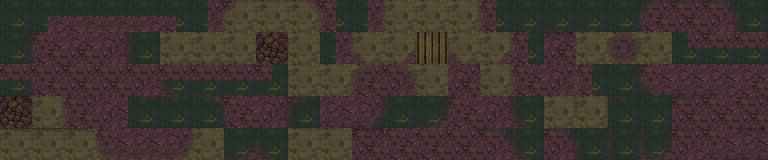
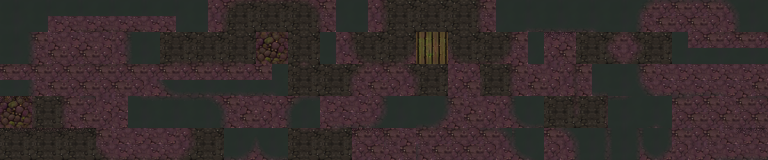
swamp: calm smooth bog water + earthy-brown soil that matches the marsh
Bog water: the @1041,102 tile had a busy yellow-speck pattern that tiled
obviously and read as a dotted green floor. Switch to the cleaner deep-water
tile @1119,102 and run it through a new smooth() pass (gaussian blur + pull
toward tile mean) so it renders as a calm murky surface instead of patterned.

Soil: the @252,178 olive ground clashed with the purple marsh ('green floor').
Switch 'k' land trails to an earthy brown mud @330,178, desaturated (0.55) and
darkened (0.82) so it reads as worn marsh ground that blends with the stage.

Pure art swap: regenerate -> rebake -> reimport. typecheck green.

diff --git a/tools/slice-swamp-wang.py b/tools/slice-swamp-wang.py
@@ -38,6 +38,20 @@ def fillkeyed(im):  # replace keyed (transparent) pixels with tile mean -> no bl
                 ql[i, j] = (m[0], m[1], m[2], 255)
     return q
 
+def smooth(im, blur=2.0, flatten=0.55, sat=1.0):
+    # Calm a busy tile into a near-flat surface: blur out the per-pixel speckle, then
+    # pull every pixel partway toward the tile mean so the obvious tiling pattern
+    # disappears. Used for bog water -> smooth murky surface instead of dotted floor.
+    from PIL import ImageFilter
+    c = im.convert("RGB").filter(ImageFilter.GaussianBlur(blur))
+    a = np.asarray(c).astype(float)
+    m = a.reshape(-1, 3).mean(axis=0)
+    a = a * (1 - flatten) + m * flatten
+    out = Image.fromarray(a.clip(0, 255).astype("uint8"))
+    if sat != 1.0:
+        out = ImageEnhance.Color(out).enhance(sat)
+    return out.convert("RGBA")
+
 def make_tileable(im, band=8):  # cross-fade opposite edges so the tile repeats seamlessly
     a = np.asarray(im.convert("RGB")).astype(float); h, w, _ = a.shape; out = a.copy()
     for d in range(band):
@@ -53,10 +67,16 @@ def make_tileable(im, band=8):  # cross-fade opposite edges so the tile repeats 
 
 # base tiles (Alex-vetted coords from main.ts floor-5 picks)
 LICHEN = make_tileable(fillkeyed(grab(18, 256, 68, 68, 1.35)))   # purple2 violet cobble-moss
-WATER  = make_tileable(fillkeyed(grab(1041, 102, 74, 71, 1.2)))  # swamp water
-# 'k' land trails -> muddy marsh soil (sheet ground tile @252,178), desaturated so it
-# reads as worn marsh ground that blends in, NOT a tan boardwalk (was 252,261 maroon).
-DIRT   = make_tileable(fillkeyed(grab(252, 178, 69, 73, 0.95)))  # muddy swamp soil
+# Bog water: cleaner deep-water tile (@1119,102) SMOOTHED into a calm murky surface.
+# The old @1041,102 tile had a busy yellow-speck pattern that tiled obviously and read
+# as a dotted green floor; blur+flatten kills that so it looks like still bog water.
+WATER  = make_tileable(smooth(fillkeyed(grab(1119, 102, 74, 71, 1.0)), blur=2.2, flatten=0.6, sat=0.9))
+# 'k' land trails -> muddy marsh soil. Was olive (@252,178) which clashed with the
+# purple marsh; switch to an earthy brown mud (@330,178), desaturated + darkened so it
+# reads as worn marsh ground that matches the stage instead of a green floor.
+DIRT   = ImageEnhance.Brightness(
+    ImageEnhance.Color(make_tileable(fillkeyed(grab(330, 178, 69, 73, 1.0))).convert("RGB")).enhance(0.55)
+).enhance(0.82).convert("RGBA")
 
 def hashf(x, y):
     h = (x * 374761393 + y * 668265263) & 0xffffffff
